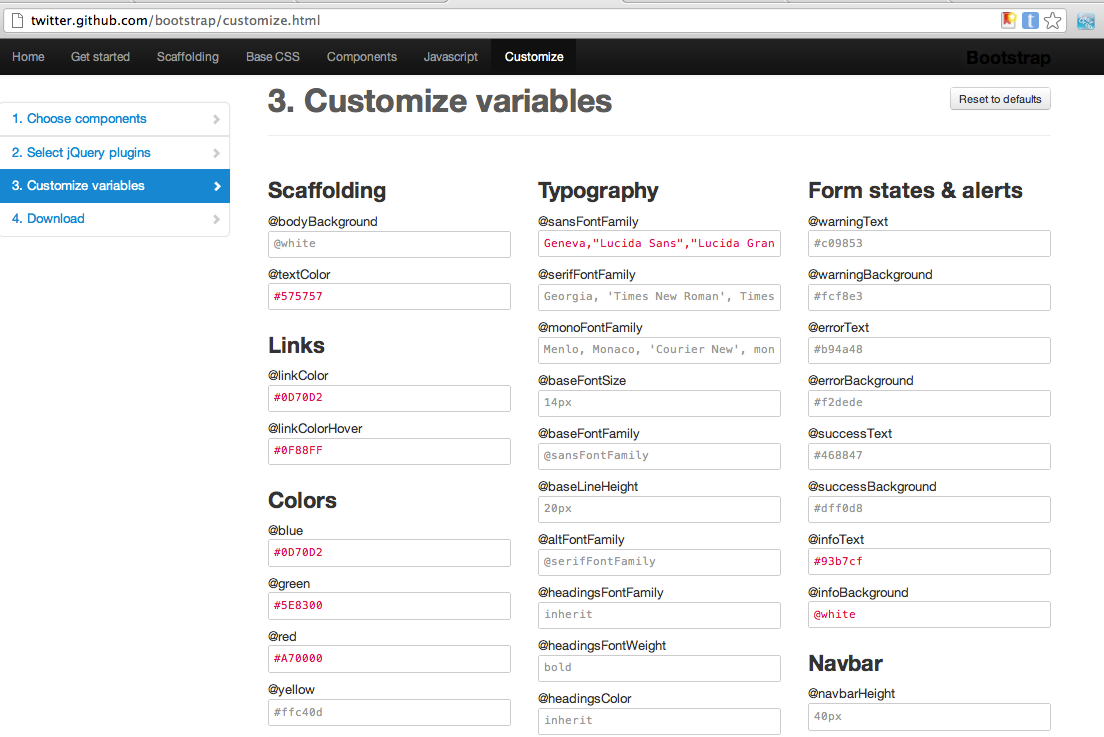
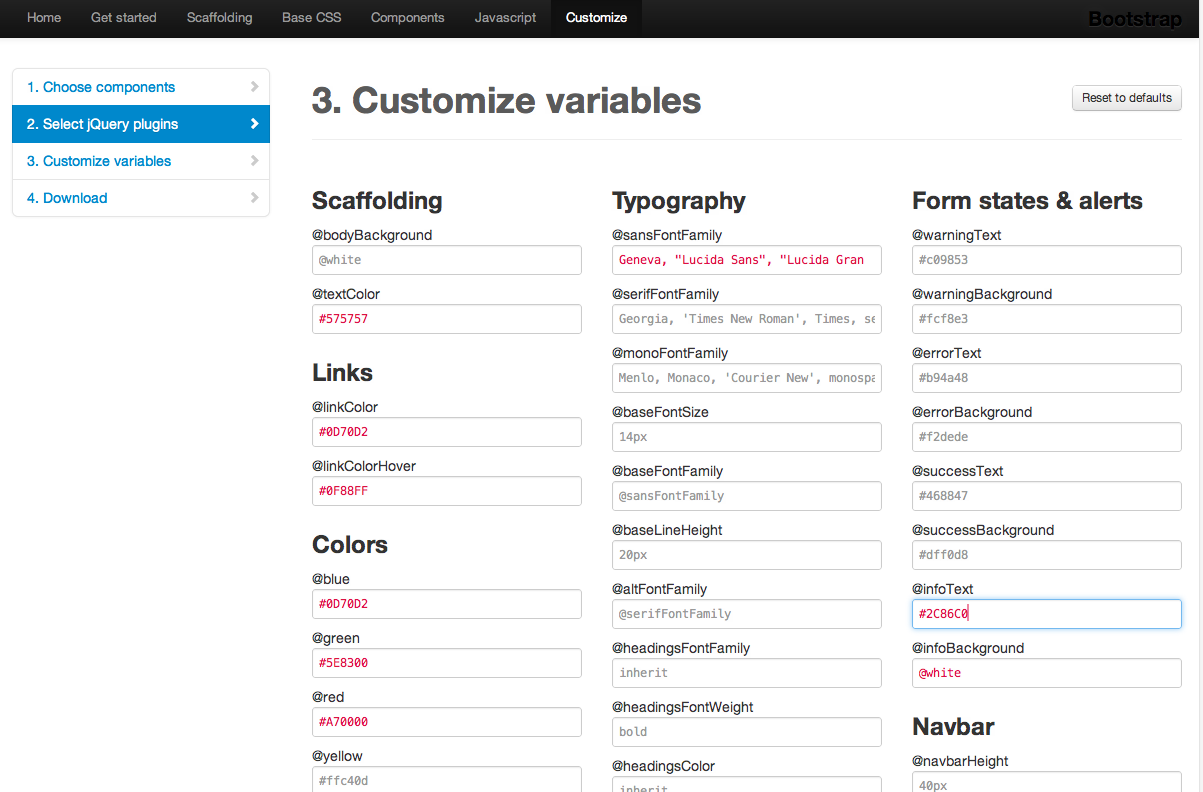
Impacto v.3.0.1 Fixed Bootstrap styles Added support for Sicky Footer (Wright v.3)

diff --git a/code/css/style-blue.bootstrap.min.css b/code/css/style-blue.bootstrap.min.css
@@ -163,8 +163,8 @@ a.label:hover,a.badge:hover{color:#ffffff;text-decoration:none;cursor:pointer;}
 .label-warning[href],.badge-warning[href]{background-color:#b35505;}
 .label-success,.badge-success{background-color:#468847;}
 .label-success[href],.badge-success[href]{background-color:#356635;}
-.label-info,.badge-info{background-color:#93b7cf;}
-.label-info[href],.badge-info[href]{background-color:#709fbf;}
+.label-info,.badge-info{background-color:#2c86c0;}
+.label-info[href],.badge-info[href]{background-color:#226997;}
 .label-inverse,.badge-inverse{background-color:#333333;}
 .label-inverse[href],.badge-inverse[href]{background-color:#1a1a1a;}
 .btn .label,.btn .badge{position:relative;top:-1px;}
@@ -185,7 +185,7 @@ table{max-width:100%;background-color:#fbfbfb;border-collapse:collapse;border-sp
 .table-bordered caption+thead tr:first-child th:first-child,.table-bordered caption+tbody tr:first-child td:first-child,.table-bordered colgroup+thead tr:first-child th:first-child,.table-bordered colgroup+tbody tr:first-child td:first-child{-webkit-border-top-left-radius:4px;border-top-left-radius:4px;-moz-border-radius-topleft:4px;}
 .table-bordered caption+thead tr:first-child th:last-child,.table-bordered caption+tbody tr:first-child td:last-child,.table-bordered colgroup+thead tr:first-child th:last-child,.table-bordered colgroup+tbody tr:first-child td:last-child{-webkit-border-top-right-radius:4px;border-top-right-radius:4px;-moz-border-right-topleft:4px;}
 .table-striped tbody tr:nth-child(odd) td,.table-striped tbody tr:nth-child(odd) th{background-color:#f5f5f5;}
-.table-hover tbody tr:hover td,.table-hover tbody tr:hover th{background-color:#93b7cf;}
+.table-hover tbody tr:hover td,.table-hover tbody tr:hover th{background-color:#efefef;}
 table [class*=span],.row-fluid table [class*=span]{display:table-cell;float:none;margin-left:0;}
 table .span1{float:none;width:44px;margin-left:0;}
 table .span2{float:none;width:124px;margin-left:0;}
@@ -691,7 +691,7 @@ a.thumbnail:hover{border-color:#0d70d2;-webkit-box-shadow:0 1px 4px rgba(0, 105,
 .alert .close{position:relative;top:-2px;right:-21px;line-height:20px;}
 .alert-success{background-color:#dff0d8;border-color:#d6e9c6;color:#468847;}
 .alert-danger,.alert-error{background-color:#f2dede;border-color:#eed3d7;color:#b94a48;}
-.alert-info{background-color:#ffffff;border-color:#ededed;color:#93b7cf;}
+.alert-info{background-color:#ffffff;border-color:#ededed;color:#2c86c0;}
 .alert-block{padding-top:14px;padding-bottom:14px;}
 .alert-block>p,.alert-block>ul{margin-bottom:0;}
 .alert-block p+p{margin-top:5px;}

diff --git a/code/css/style-orange.bootstrap.min.css b/code/css/style-orange.bootstrap.min.css
@@ -163,8 +163,8 @@ a.label:hover,a.badge:hover{color:#ffffff;text-decoration:none;cursor:pointer;}
 .label-warning[href],.badge-warning[href]{background-color:#b35505;}
 .label-success,.badge-success{background-color:#468847;}
 .label-success[href],.badge-success[href]{background-color:#356635;}
-.label-info,.badge-info{background-color:#c37854;}
-.label-info[href],.badge-info[href]{background-color:#a95f3b;}
+.label-info,.badge-info{background-color:#f67d2b;}
+.label-info[href],.badge-info[href]{background-color:#e4620a;}
 .label-inverse,.badge-inverse{background-color:#333333;}
 .label-inverse[href],.badge-inverse[href]{background-color:#1a1a1a;}
 .btn .label,.btn .badge{position:relative;top:-1px;}
@@ -185,7 +185,7 @@ table{max-width:100%;background-color:#fbfbfb;border-collapse:collapse;border-sp
 .table-bordered caption+thead tr:first-child th:first-child,.table-bordered caption+tbody tr:first-child td:first-child,.table-bordered colgroup+thead tr:first-child th:first-child,.table-bordered colgroup+tbody tr:first-child td:first-child{-webkit-border-top-left-radius:4px;border-top-left-radius:4px;-moz-border-radius-topleft:4px;}
 .table-bordered caption+thead tr:first-child th:last-child,.table-bordered caption+tbody tr:first-child td:last-child,.table-bordered colgroup+thead tr:first-child th:last-child,.table-bordered colgroup+tbody tr:first-child td:last-child{-webkit-border-top-right-radius:4px;border-top-right-radius:4px;-moz-border-right-topleft:4px;}
 .table-striped tbody tr:nth-child(odd) td,.table-striped tbody tr:nth-child(odd) th{background-color:#f5f5f5;}
-.table-hover tbody tr:hover td,.table-hover tbody tr:hover th{background-color:#fed9c7;}
+.table-hover tbody tr:hover td,.table-hover tbody tr:hover th{background-color:#efefef;}
 table [class*=span],.row-fluid table [class*=span]{display:table-cell;float:none;margin-left:0;}
 table .span1{float:none;width:44px;margin-left:0;}
 table .span2{float:none;width:124px;margin-left:0;}
@@ -691,7 +691,7 @@ a.thumbnail:hover{border-color:#e46c07;-webkit-box-shadow:0 1px 4px rgba(0, 105,
 .alert .close{position:relative;top:-2px;right:-21px;line-height:20px;}
 .alert-success{background-color:#dff0d8;border-color:#d6e9c6;color:#468847;}
 .alert-danger,.alert-error{background-color:#f2dede;border-color:#eed3d7;color:#b94a48;}
-.alert-info{background-color:#ffffff;border-color:#ededed;color:#c37854;}
+.alert-info{background-color:#ffffff;border-color:#ededed;color:#f67d2b;}
 .alert-block{padding-top:14px;padding-bottom:14px;}
 .alert-block>p,.alert-block>ul{margin-bottom:0;}
 .alert-block p+p{margin-top:5px;}

diff --git a/code/css/style-green.bootstrap.min.css b/code/css/style-green.bootstrap.min.css
@@ -163,7 +163,7 @@ a.label:hover,a.badge:hover{color:#ffffff;text-decoration:none;cursor:pointer;}
 .label-warning[href],.badge-warning[href]{background-color:#b35505;}
 .label-success,.badge-success{background-color:#468847;}
 .label-success[href],.badge-success[href]{background-color:#356635;}
-.label-info,.badge-info{background-color:#75913d;}
+.label-info,.badge-info{background-color:#84ad25;}
 .label-info[href],.badge-info[href]{background-color:#586d2e;}
 .label-inverse,.badge-inverse{background-color:#333333;}
 .label-inverse[href],.badge-inverse[href]{background-color:#1a1a1a;}
@@ -185,7 +185,7 @@ table{max-width:100%;background-color:#fbfbfb;border-collapse:collapse;border-sp
 .table-bordered caption+thead tr:first-child th:first-child,.table-bordered caption+tbody tr:first-child td:first-child,.table-bordered colgroup+thead tr:first-child th:first-child,.table-bordered colgroup+tbody tr:first-child td:first-child{-webkit-border-top-left-radius:4px;border-top-left-radius:4px;-moz-border-radius-topleft:4px;}
 .table-bordered caption+thead tr:first-child th:last-child,.table-bordered caption+tbody tr:first-child td:last-child,.table-bordered colgroup+thead tr:first-child th:last-child,.table-bordered colgroup+tbody tr:first-child td:last-child{-webkit-border-top-right-radius:4px;border-top-right-radius:4px;-moz-border-right-topleft:4px;}
 .table-striped tbody tr:nth-child(odd) td,.table-striped tbody tr:nth-child(odd) th{background-color:#f5f5f5;}
-.table-hover tbody tr:hover td,.table-hover tbody tr:hover th{background-color:#c8d89d;}
+.table-hover tbody tr:hover td,.table-hover tbody tr:hover th{background-color:#efefef;}
 table [class*=span],.row-fluid table [class*=span]{display:table-cell;float:none;margin-left:0;}
 table .span1{float:none;width:44px;margin-left:0;}
 table .span2{float:none;width:124px;margin-left:0;}

diff --git a/code/css/style-red.bootstrap.min.css b/code/css/style-red.bootstrap.min.css
@@ -163,7 +163,7 @@ a.label:hover,a.badge:hover{color:#ffffff;text-decoration:none;cursor:pointer;}
 .label-warning[href],.badge-warning[href]{background-color:#b35505;}
 .label-success,.badge-success{background-color:#468847;}
 .label-success[href],.badge-success[href]{background-color:#356635;}
-.label-info,.badge-info{background-color:#c78882;}
+.label-info,.badge-info{background-color:#a5060e;}
 .label-info[href],.badge-info[href]{background-color:#b7665f;}
 .label-inverse,.badge-inverse{background-color:#333333;}
 .label-inverse[href],.badge-inverse[href]{background-color:#1a1a1a;}
@@ -185,7 +185,7 @@ table{max-width:100%;background-color:#fbfbfb;border-collapse:collapse;border-sp
 .table-bordered caption+thead tr:first-child th:first-child,.table-bordered caption+tbody tr:first-child td:first-child,.table-bordered colgroup+thead tr:first-child th:first-child,.table-bordered colgroup+tbody tr:first-child td:first-child{-webkit-border-top-left-radius:4px;border-top-left-radius:4px;-moz-border-radius-topleft:4px;}
 .table-bordered caption+thead tr:first-child th:last-child,.table-bordered caption+tbody tr:first-child td:last-child,.table-bordered colgroup+thead tr:first-child th:last-child,.table-bordered colgroup+tbody tr:first-child td:last-child{-webkit-border-top-right-radius:4px;border-top-right-radius:4px;-moz-border-right-topleft:4px;}
 .table-striped tbody tr:nth-child(odd) td,.table-striped tbody tr:nth-child(odd) th{background-color:#f5f5f5;}
-.table-hover tbody tr:hover td,.table-hover tbody tr:hover th{background-color:#c78882;}
+.table-hover tbody tr:hover td,.table-hover tbody tr:hover th{background-color:#efefef;}
 table [class*=span],.row-fluid table [class*=span]{display:table-cell;float:none;margin-left:0;}
 table .span1{float:none;width:44px;margin-left:0;}
 table .span2{float:none;width:124px;margin-left:0;}

diff --git a/code/css/1_template.css b/code/css/1_template.css
@@ -1,23 +1,11 @@
 @charset "utf-8";
 /************ Body ****************************************************************/
-html {
-	height: 100%;
-}
-body{
-	padding-top: 0;
-	min-height: 100%;
-	position: relative;
-}
-body.toolbarpadding{
-	padding-top: 40px;
-}
+
 body.home .wrapper-content{
 	background-image: none;
 }
-/************ Toolbar ****************************************************************/
-#toolbar{
-	margin-bottom: 0;
-}
+
+
 /************ Header ****************************************************************/
 #header{
 	margin-bottom: 0;
@@ -245,7 +233,9 @@ div.total {
 	background-repeat: repeat-x;
 	 color: #A6A6A6;
     text-shadow: 1px 1px 0 #000000;
-    padding: 5px 0;
+    position: absolute;
+    width: 100%;
+    bottom: 0;
 }
 #footer h3{
 	overflow: hidden;
@@ -288,3 +278,4 @@ div.total {
 		margin-right: -20px;
 	}
 }
+

diff --git a/code/css/style-green.css b/code/css/style-green.css
@@ -47,7 +47,7 @@ body.home{
 #toolbar .navbar-inverse .brand, 
 #toolbar .navbar-inverse .nav > li > a,
 #toolbar  .navbar .nav > li > a {
-	text-shadow: 1px -1px 1px #666666;
+	text-shadow: 0px -1px 1px #666666;
 }
 
 .navbar .nav li.dropdown > .dropdown-toggle .caret{
@@ -131,7 +131,7 @@ body.home{
 /*********************************************/
 
 
-@media (max-width: 767px) {
+@media (max-width: 969px) {
 		.wrapper-menu,
 			.wrapper-bottom-menu  {
 		background-image: url("../images/green/bg-menu-movil.jpg");

diff --git a/code/css/style-orange.css b/code/css/style-orange.css
@@ -46,7 +46,7 @@ body.home{
 #toolbar .navbar-inverse .brand, 
 #toolbar .navbar-inverse .nav > li > a,
 #toolbar  .navbar .nav > li > a {
-	text-shadow: 1px -1px 1px #666666;
+	text-shadow: 0px -1px 1px #666666;
 }
 
 .navbar .nav li.dropdown > .dropdown-toggle .caret{
@@ -150,7 +150,7 @@ body.home{
 /*********************************************/
 
 
-@media (max-width: 767px) {
+@media (max-width: 969px) {
 		.wrapper-menu,
 		.wrapper-bottom-menu  {
 		background-image: url("../images/orange/bg-menu-movil.jpg");

diff --git a/code/css/style-blue.css b/code/css/style-blue.css
@@ -47,7 +47,7 @@ body.home{
 #toolbar .navbar-inverse .brand, 
 #toolbar .navbar-inverse .nav > li > a,
 #toolbar  .navbar .nav > li > a {
-	text-shadow: 1px -1px 1px #666666;
+	text-shadow: 0px -1px 1px #666666;
 }
 
 .navbar .nav li.dropdown > .dropdown-toggle .caret{
@@ -133,7 +133,7 @@ body.home{
 /*********************************************/
 
 
-@media (max-width: 767px) {
+@media (max-width: 969px) {
 		.wrapper-menu,
 			.wrapper-bottom-menu  {
 		background-image: url("../images/blue/bg-menu-movil.jpg");

diff --git a/code/css/style-red.css b/code/css/style-red.css
@@ -47,7 +47,7 @@ body.home{
 #toolbar .navbar-inverse .brand, 
 #toolbar .navbar-inverse .nav > li > a,
 #toolbar  .navbar .nav > li > a {
-	text-shadow: 1px -1px 1px #666666;
+	text-shadow: 0px -1px 1px #666666;
 }
 
 /******** li  hover *******************/
@@ -128,7 +128,7 @@ body.home{
 /*********************************************/
 
 
-@media (max-width: 767px) {
+@media (max-width: 969px) {
 		.wrapper-menu,
 			.wrapper-bottom-menu  {
 		background-image: url("../images/red/bg-menu-movil.jpg");

diff --git a/code/template.php b/code/template.php
@@ -28,7 +28,6 @@ if ($this->countModules('toolbar')) {
 	<html>
 		<head>
 			<w:head />
-			<script type="text/javascript" src="<?php echo $this->baseurl ?>/templates/js_impacto/js/footer.js"></script>
 		</head>
 		<body<?php if ($bodyclass != "") :?> class="<?php echo $bodyclass?>"<?php endif;?>>
 				<?php if ($this->countModules('toolbar')) :
@@ -128,23 +127,25 @@ if ($this->countModules('toolbar')) {
 						<?php endif;?>
 
 			<!-- footer -->
-			<footer id="footer" >
-				<div class="<?php echo $containerClass ?>">
-					<?php if ($this->countModules('grid-bottom2')) :
-					?>
-					<!-- grid-bottom2 -->
-					<div id="grid-bottom2" >
-						<w:module type="<?php echo $gridMode;?>" name="grid-bottom2" chrome="wrightflexgrid" />
+			<div class="wrapper-footer">
+			    <footer id="footer" <?php if ($this->params->get('stickyFooter',1)) : ?> class="sticky"<?php endif;?>>
+					<div class="<?php echo $containerClass ?>">
+						<?php if ($this->countModules('grid-bottom2')) :
+						?>
+						<!-- grid-bottom2 -->
+						<div id="grid-bottom2" >
+							<w:module type="<?php echo $gridMode;?>" name="grid-bottom2" chrome="wrightflexgrid" />
+						</div>
+						<?php endif;?>
+	
+						<?php if ($this->countModules('footer')) :
+						?>
+	
+						<w:module type="<?php echo $gridMode;?>" name="footer" chrome="none" />
+						<?php endif;?>
+						<w:footer />
 					</div>
-					<?php endif;?>
-
-					<?php if ($this->countModules('footer')) :
-					?>
-
-					<w:module type="<?php echo $gridMode;?>" name="footer" chrome="wrightflexgrid" />
-					<?php endif;?>
-					<w:footer />
-				</div>
-			</footer>
+				</footer>
+			</div>
 		</body>
 	</html>
